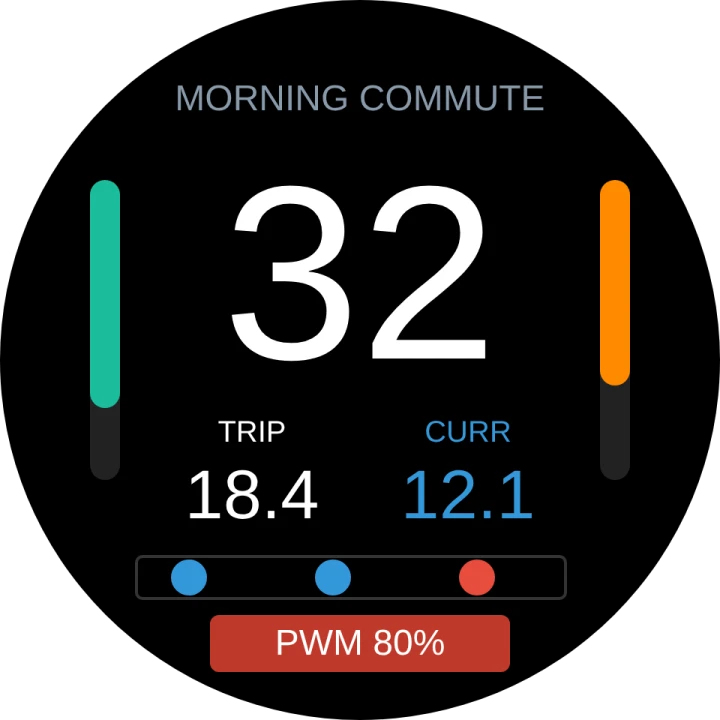
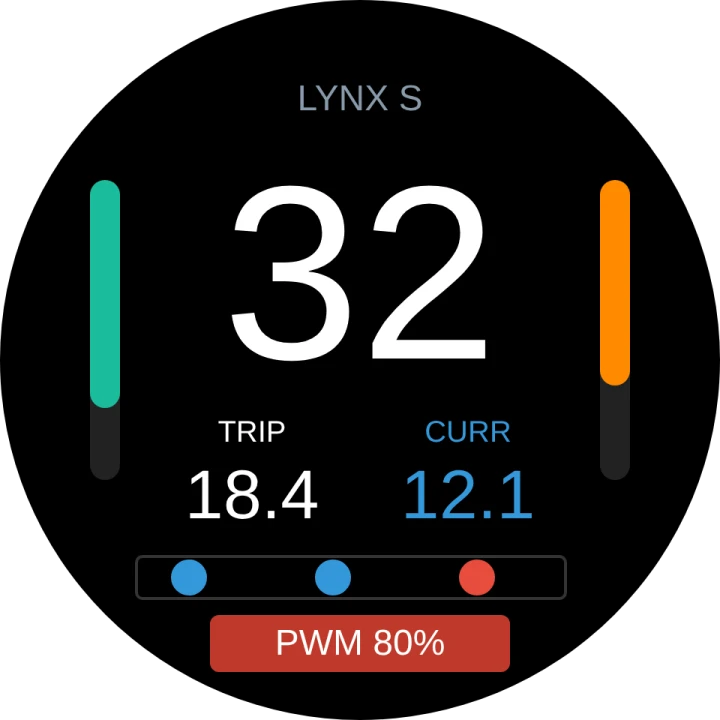
Home: drop names from example dashboard layouts
Named examples read as presets that exist in the app or the layout
gallery. Captions now describe only the widgets shown, and the free-text
widget shows a wheel name instead of a layout-like title.

Claude-Session: https://claude.ai/code/session_0113Rbw9K8vn8adzvCaMpYEK

Changed region(s): [[0.2444, 0.0917, 0.7639, 0.1528]]

diff --git a/assets/css/main.scss b/assets/css/main.scss
@@ -141,7 +141,6 @@ p.wd-trace__legend { display: flex; margin: .7rem 0 0; flex-wrap: wrap; align-it
 .wd-dash-face__bezel img { display: block; width: 100%; height: auto; border-radius: 50%; }
 .wd-dash-face--square .wd-dash-face__bezel img { border-radius: 26px; }
 .wd-dash-face figcaption { display: grid; gap: .35rem; font-family: Inter, system-ui, sans-serif; text-align: center; }
-.wd-dash-face strong { color: var(--wd-text); font-size: 1rem; }
 .wd-dash-face span { letter-spacing: .06em; }
 .wd-dash-face span, .wd-dashboards__platforms, .wd-dashboards p.wd-dashboards__note { color: var(--wd-muted); font-family: "JetBrains Mono", ui-monospace, monospace; font-size: .62rem; letter-spacing: .12em; text-transform: uppercase; }
 .wd-dashboards__platforms { display: flex; margin: 2rem 0 0; padding: 0; flex-wrap: wrap; gap: .6rem 1.8rem; list-style: none; }

diff --git a/_pages/home.md b/_pages/home.md
@@ -131,20 +131,20 @@ classes: wheeldash-home
   <div class="wd-section__intro"><p class="wd-kicker">Your dashboard</p><h2 id="dashboards-title">Your layout.<br>Your data.</h2><p>On Amazfit, place speed, PWM, battery, temperatures, current, the Varia radar bar and your own text exactly where you want them. Build layouts on the watch or in the <a href="https://wd.nijalabs.com/layout-editor">Ride Portal's layout editor</a>.</p></div>
   <div class="wd-dashboards__grid">
     <figure class="wd-dash-face">
-      <div class="wd-dash-face__bezel"><img src="/assets/images/dashboards/minimal.webp" width="720" height="720" loading="lazy" alt="Minimal round layout: large speed, battery bar and recording indicator"></div>
-      <figcaption><strong>Minimal</strong><span>Speed · battery bar · rec</span></figcaption>
+      <div class="wd-dash-face__bezel"><img src="/assets/images/dashboards/minimal.webp" width="720" height="720" loading="lazy" alt="Round layout: large speed, battery bar and recording indicator"></div>
+      <figcaption><span>Speed · battery bar · rec</span></figcaption>
     </figure>
     <figure class="wd-dash-face">
-      <div class="wd-dash-face__bezel"><img src="/assets/images/dashboards/racing.webp" width="720" height="720" loading="lazy" alt="Racing round layout: speed arc gauge around the screen with PWM, battery and temperature"></div>
-      <figcaption><strong>Racing</strong><span>Speed arc · PWM · batt · temp</span></figcaption>
+      <div class="wd-dash-face__bezel"><img src="/assets/images/dashboards/racing.webp" width="720" height="720" loading="lazy" alt="Round layout: speed arc gauge around the screen with PWM, battery and temperature"></div>
+      <figcaption><span>Speed arc · PWM · batt · temp</span></figcaption>
     </figure>
     <figure class="wd-dash-face">
-      <div class="wd-dash-face__bezel"><img src="/assets/images/dashboards/commute.webp" width="720" height="720" loading="lazy" alt="Commute round layout: free-text label, speed, battery and temperature bars, trip, current, Varia radar bar and alarm message"></div>
-      <figcaption><strong>Commute</strong><span>Free text · Varia · alarm</span></figcaption>
+      <div class="wd-dash-face__bezel"><img src="/assets/images/dashboards/commute.webp" width="720" height="720" loading="lazy" alt="Round layout: free-text label, speed, battery and temperature bars, trip, current, Varia radar bar and alarm message"></div>
+      <figcaption><span>Free text · Varia · alarm</span></figcaption>
     </figure>
     <figure class="wd-dash-face wd-dash-face--square">
-      <div class="wd-dash-face__bezel"><img src="/assets/images/dashboards/stats.webp" width="720" height="829" loading="lazy" alt="Square trip-stats layout: ride time, trip distance, average moving speed, top speed, battery use per km and voltage"></div>
-      <figcaption><strong>Trip stats</strong><span>Square · 6 labelled values</span></figcaption>
+      <div class="wd-dash-face__bezel"><img src="/assets/images/dashboards/stats.webp" width="720" height="829" loading="lazy" alt="Square layout: ride time, trip distance, average moving speed, top speed, battery use per km and voltage"></div>
+      <figcaption><span>Square · 6 labelled values</span></figcaption>
     </figure>
   </div>
   <ul class="wd-dashboards__platforms" aria-label="Dashboard customization by platform">
